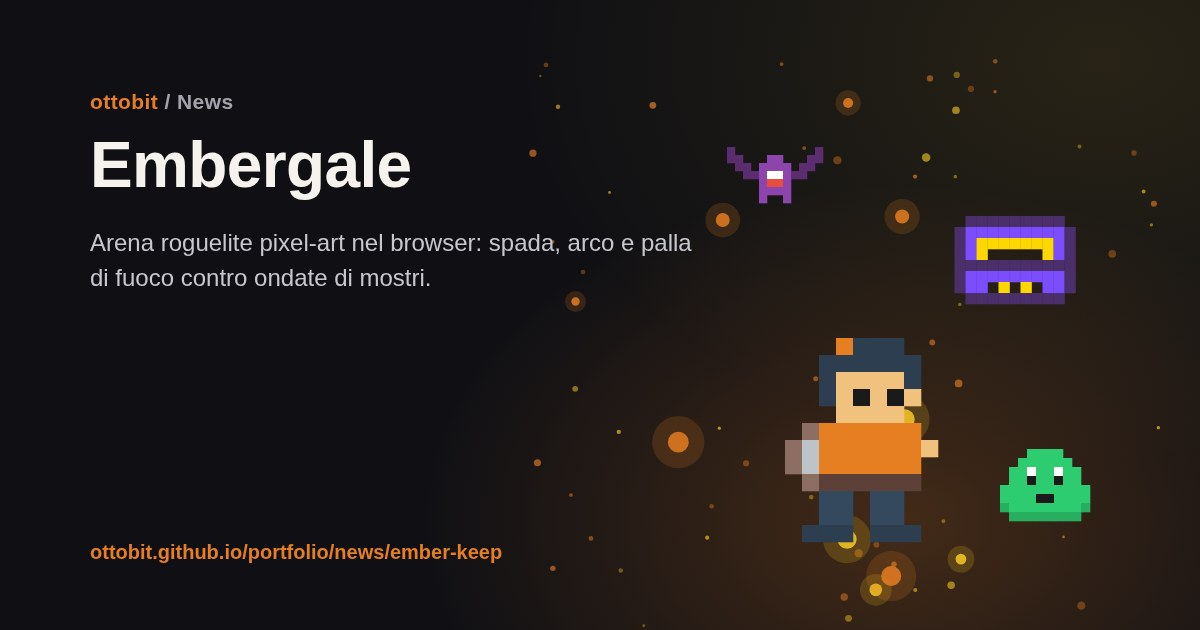
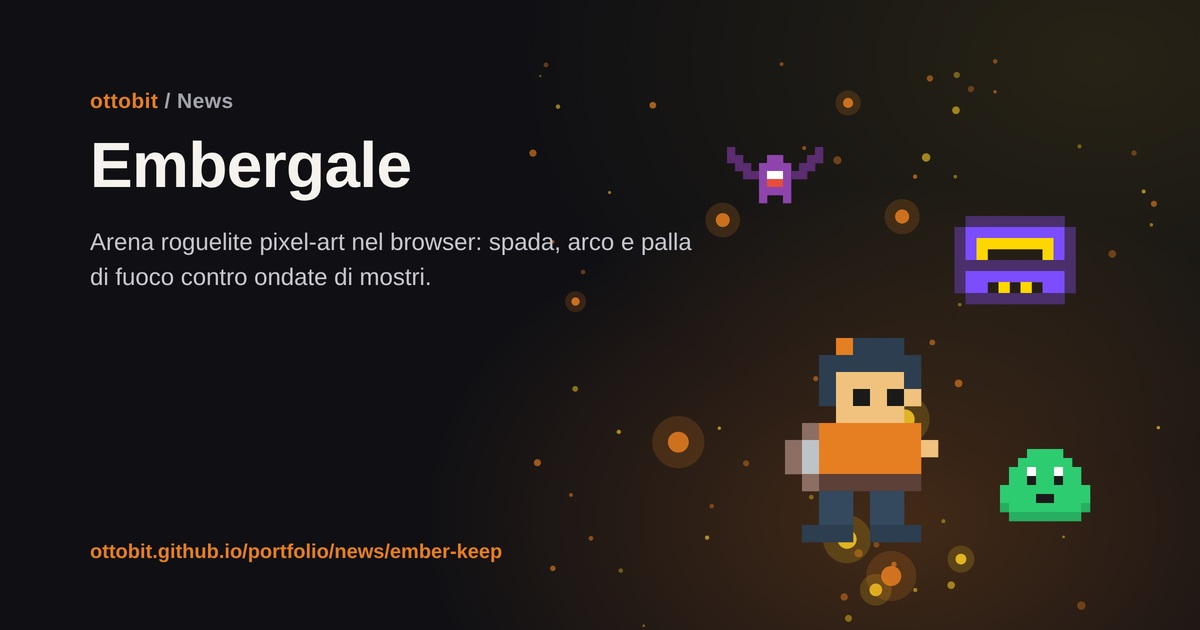
Fix visible grain on Embergale's OG card
The card was rendered and screenshotted at 1x, then JPEG-compressed —
visible as fine grain/banding across the dark gradient background,
especially in an image inspector zoomed past 100%. Rendered at 2x
device scale and downscaled with Lanczos resampling before encoding,
same fix a designer would reach for exporting a crisp raster from a
vector/HTML source.

Claude-Session: https://claude.ai/code/session_013rZFgYsfz8J8V6F1rrPeq2

diff --git a/news/ember-keep/index.html b/news/ember-keep/index.html
@@ -17,13 +17,13 @@
     <link rel="canonical" href="https://ottobit.github.io/portfolio/news/ember-keep/">
     <meta property="og:title" content="ottobit — Embergale">
     <meta property="og:description" content="Da Ocarina of Time a Baldur's Gate: i ricordi che hanno reso possibile Embergale, una piccola arena di combattimento giocabile nel browser.">
-    <meta property="og:image" content="https://ottobit.github.io/portfolio/assets/images/og-embergale.jpg?v=2">
+    <meta property="og:image" content="https://ottobit.github.io/portfolio/assets/images/og-embergale.jpg?v=3">
     <meta property="og:image:width" content="1200">
     <meta property="og:image:height" content="630">
     <meta name="twitter:card" content="summary_large_image">
     <meta name="twitter:title" content="ottobit — Embergale">
     <meta name="twitter:description" content="Da Ocarina of Time a Baldur's Gate: i ricordi che hanno reso possibile Embergale, una piccola arena di combattimento giocabile nel browser.">
-    <meta name="twitter:image" content="https://ottobit.github.io/portfolio/assets/images/og-embergale.jpg?v=2">
+    <meta name="twitter:image" content="https://ottobit.github.io/portfolio/assets/images/og-embergale.jpg?v=3">
     <script type="application/ld+json">
     {
         "@context": "https://schema.org",
